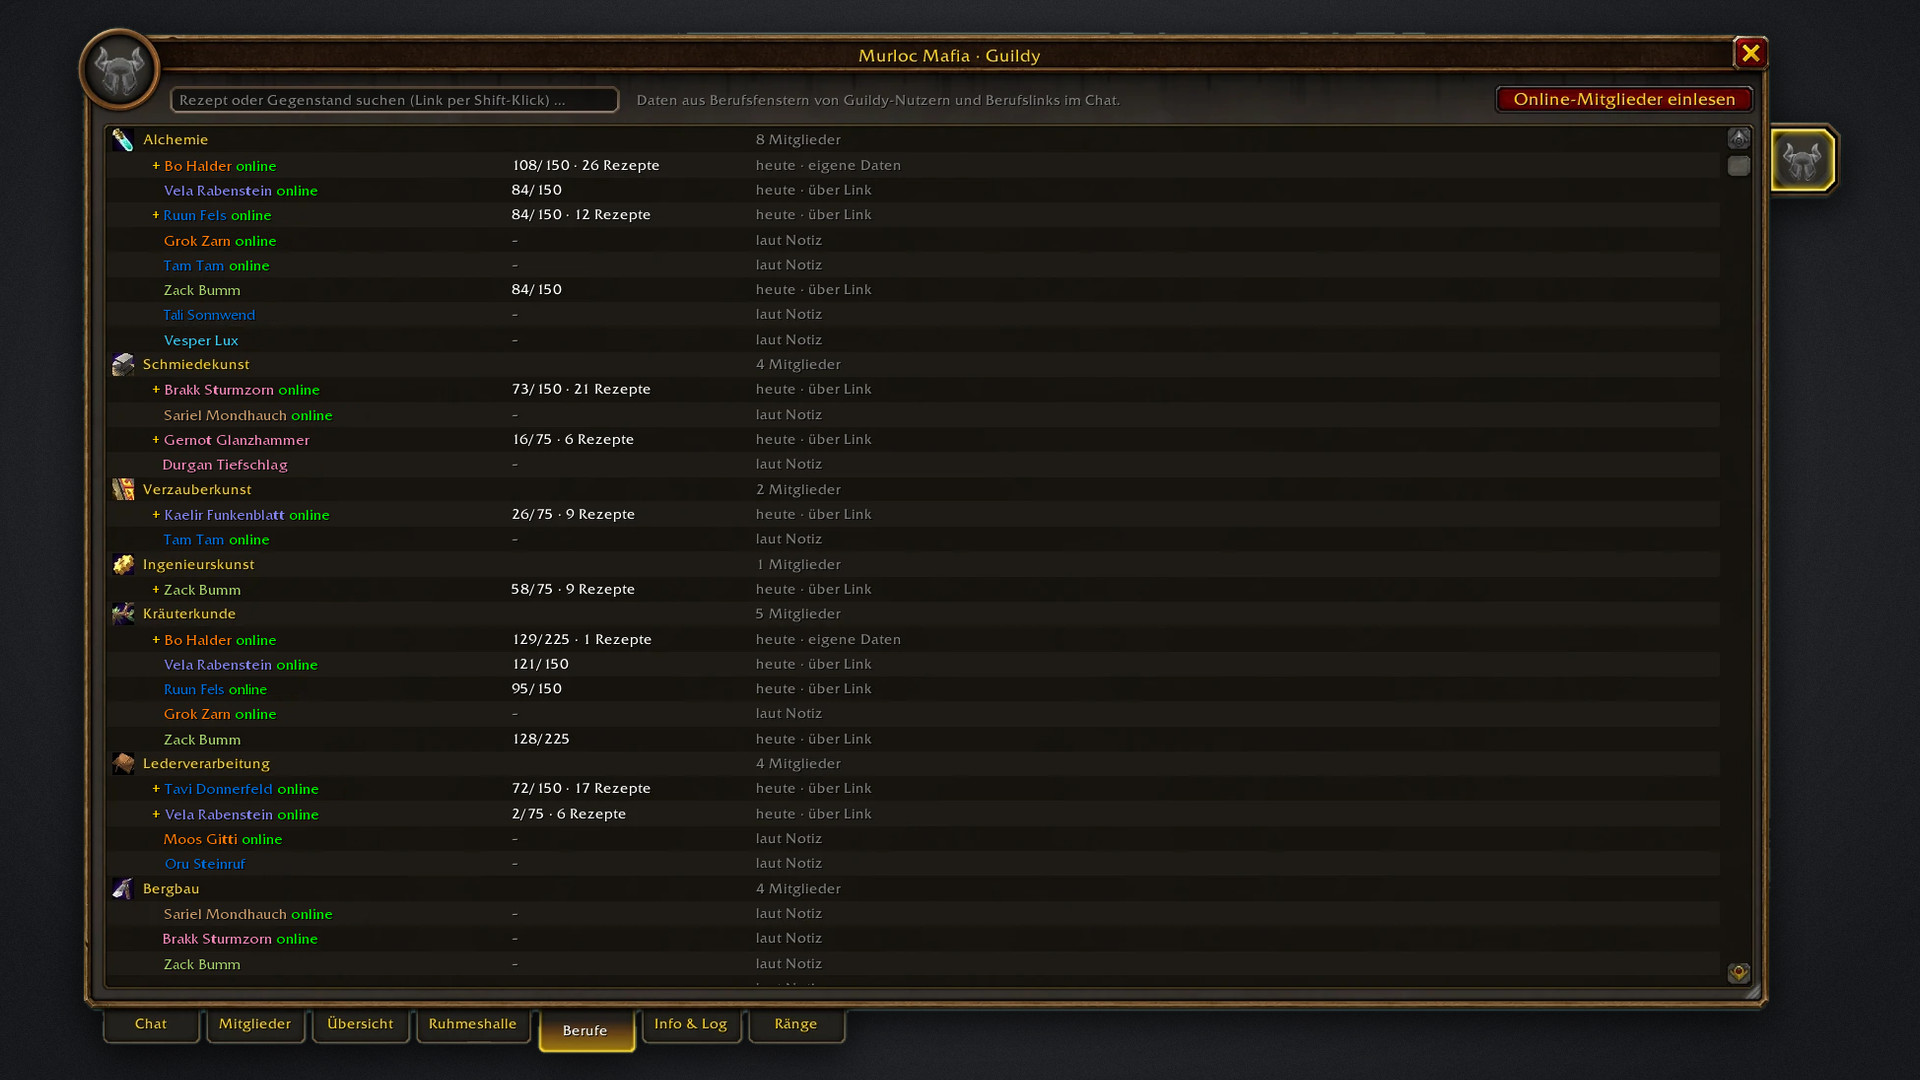
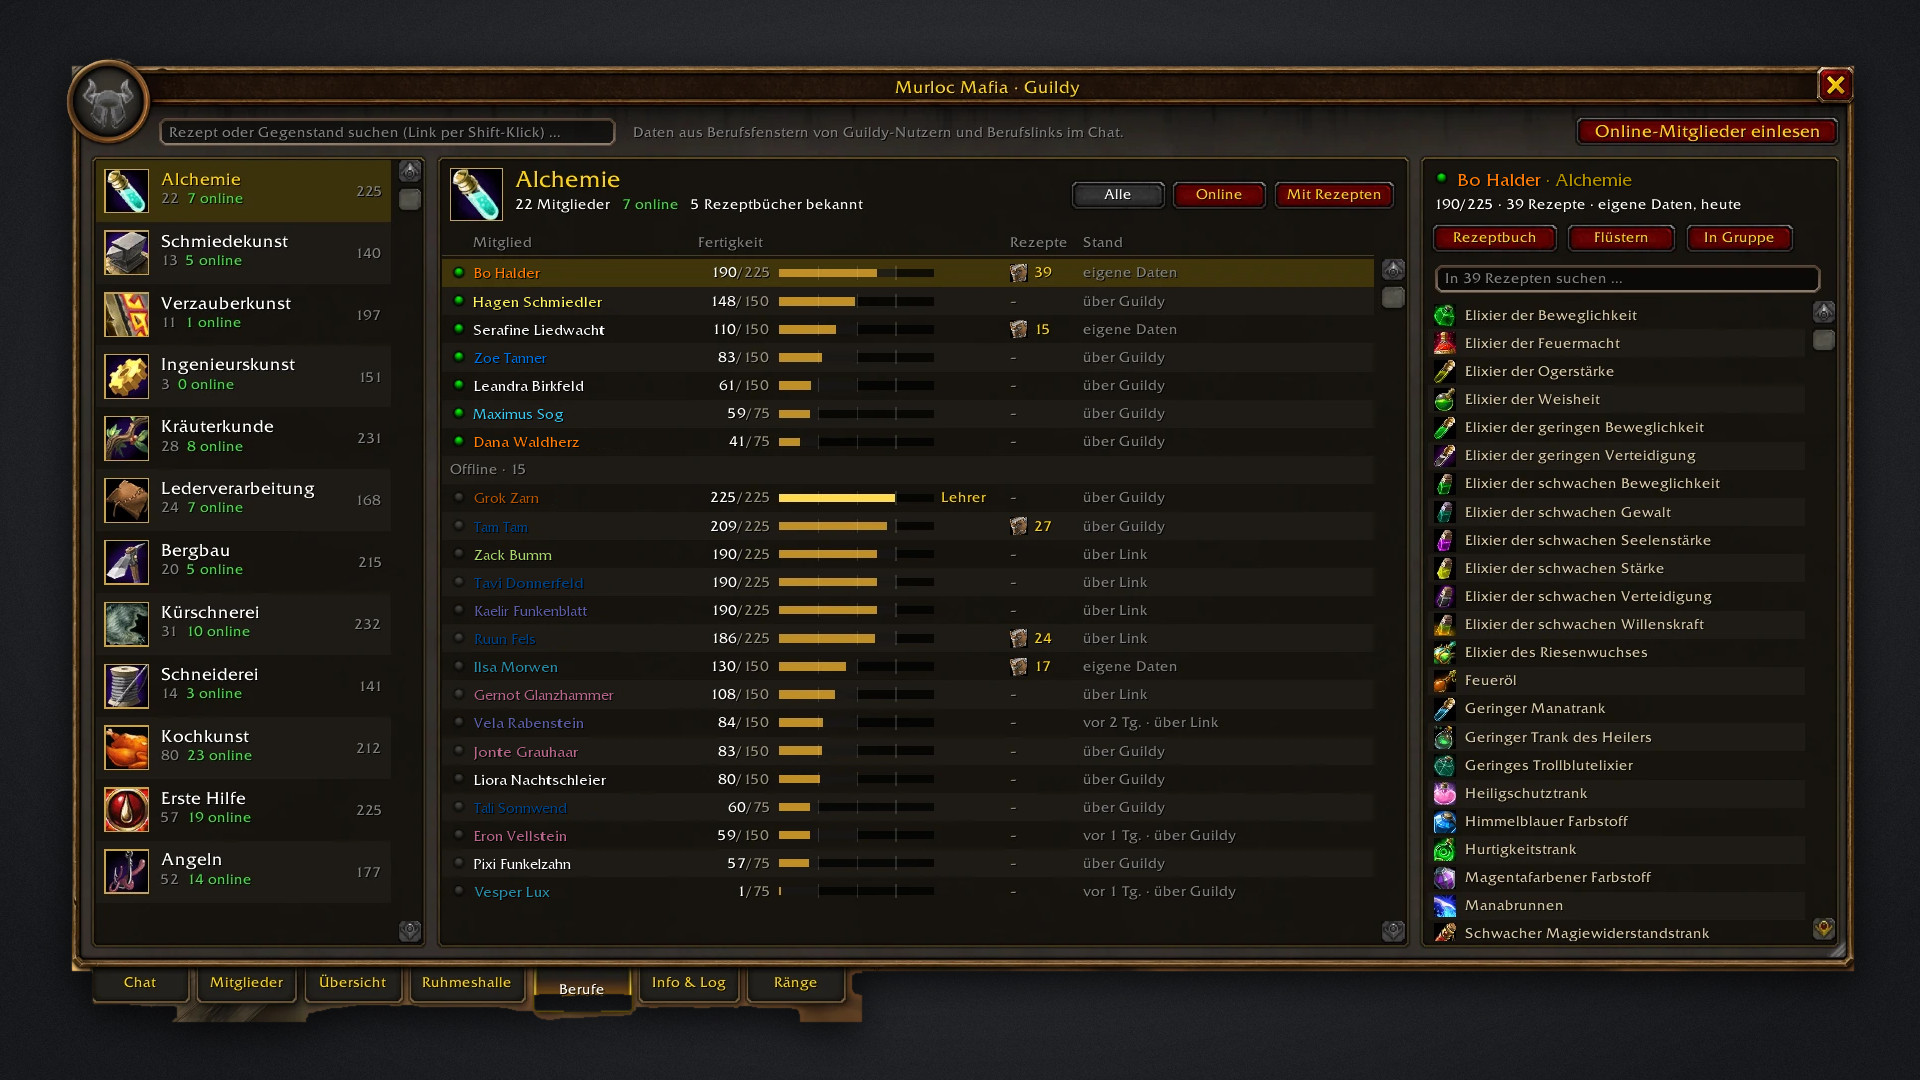
docs: gallery images and README for the new professions tab

diff --git a/media/gallery/build.py b/media/gallery/build.py
@@ -123,6 +123,27 @@ def stamp(img, spr, x, y):
 
 # --- cut the window out of the game world -------------------------------------------------------------
 
+def cutout_rect(im, rect):
+    """For screenshots where the world behind the window is neither sky nor night: cut along the measured
+    outer frame `rect` (x0, y0, x1, y1), plus the portrait ring and the tabs below (dark shapes)."""
+    a = np.asarray(im).astype(int)
+    h, w = a.shape[:2]
+    x0, y0, x1, y1 = rect
+    fg = np.zeros((h, w), bool)
+    fg[y0:y1 + 1, x0:x1 + 1] = True
+    yy, xx = np.mgrid[0:h, 0:w]
+    fg |= (xx - (x0 + 39)) ** 2 + (yy - (y0 + 37)) ** 2 <= 45 ** 2
+    tz = np.zeros((h, w), bool)
+    tz[y1 + 1:min(h, y1 + 52), x0 + 20:x0 + 790] = True
+    dark = Image.fromarray(((a.sum(2) < 200) & tz).astype(np.uint8) * 255)
+    dark = dark.filter(ImageFilter.MaxFilter(11)).filter(ImageFilter.MinFilter(11))
+    fg |= (np.asarray(dark) > 0) & tz
+    alpha = Image.fromarray((fg * 255).astype(np.uint8)).filter(ImageFilter.GaussianBlur(0.6))
+    out = im.convert("RGBA")
+    out.putalpha(alpha)
+    return out.crop(out.getbbox())
+
+
 def cutout(im):
     a = np.asarray(im).astype(int)
     # daytime sky (blue or bright) or a dark night sky (dark, at least as blue as red)
@@ -374,13 +395,13 @@ def plain(*real):
 
 def main(only=None):
     from screens import JOBS  # local only: real names and per-screen positions
-    for out, src, edit in JOBS:
+    for out, src, edit, *rect in JOBS:
         if only and not out.startswith(only):
             continue
         im = Image.open(os.path.join(HERE, "src", src + ".webp")).convert("RGB")
         img_orig[0] = im.copy()
         edit(im)
-        compose(cutout(im)).save(os.path.join(HERE, out + ".jpg"), quality=90, optimize=True, progressive=True,
+        compose(cutout_rect(im, rect[0]) if rect else cutout(im)).save(os.path.join(HERE, out + ".jpg"), quality=90, optimize=True, progressive=True,
                                  subsampling=0)
         print(out + ".jpg")
 

diff --git a/README.md b/README.md
@@ -14,12 +14,14 @@ Made for **WoW Forever**.
 - **Who's online**: next to the chat, every online member with level, class colour, professions and zone. Hover for rank, notes and skills, click to whisper, right-click for the menu.
 - **Members**: search name, zone or note, filter by class, level bracket and profession, sort by any column. The details panel shows notes, rank, last online and professions.
 - **Overview**: the census of your guild. Classes, levels and professions of the members who were online in the last month, three months, six months, or all of them. Click a bar to see who it is.
-- **Professions**: who has which profession at what skill, and a recipe search ("who can make Elixir of Lion's Strength?"). Click a member to expand their recipes, or open their recipe book.
+- **Professions**: every profession in a list on the left, with how many members have it and how many are online. Pick one to see its members with skill, recipes and where the data comes from; filter by online or by members with recipes, and browse a member's recipes right next to it. The search finds who can craft a recipe or item ("who can make Elixir of Lion's Strength?").
 - **Info & Log**: message of the day, guild information and the guild log.
 
 ![Census](https://raw.githubusercontent.com/svengabr/Guildy/main/media/gallery/03-overview.jpg)
 
 ![Professions](https://raw.githubusercontent.com/svengabr/Guildy/main/media/gallery/09-professions.jpg)
+
+![Professions: leatherworking](https://raw.githubusercontent.com/svengabr/Guildy/main/media/gallery/09-professions-leatherworking.jpg)
 
 ![Members](https://raw.githubusercontent.com/svengabr/Guildy/main/media/gallery/02-members.jpg)
 
@@ -80,7 +82,7 @@ Das Standard-Gildenfenster zeigt einen Chat und eine schlichte Liste. Guildy ers
 - **Chat**: Gildenchat mit Verlauf und etwas größerer Schrift, Offizierschat mit einem Klick, Beitritte als graue Zeile. Daneben alle Online-Mitglieder mit Stufe, Klassenfarbe, Berufen und Zone. Klick flüstert an, Rechtsklick öffnet das Menü.
 - **Mitglieder**: Suche nach Name, Zone oder Notiz, Filter für Klasse, Stufe und Beruf, sortierbare Spalten und eine Detailansicht.
 - **Übersicht**: der Census eurer Gilde. Klassen, Stufen und Berufe der Mitglieder, die im letzten Monat, in den letzten drei oder sechs Monaten oder überhaupt online waren. Ein Klick auf einen Balken zeigt, wer es ist.
-- **Berufe**: wer welchen Beruf mit welchem Skill hat, und eine Rezeptsuche („wer kann mir das herstellen?“). Ein Klick klappt die Rezepte eines Mitglieds auf, per Rechtsklick öffnest du sein Rezeptbuch.
+- **Berufe**: links alle Berufe mit der Zahl der Mitglieder und wie viele davon online sind. Ein Klick zeigt die Mitglieder des Berufs mit Skill, Rezepten und Datenquelle, filterbar nach online oder mit Rezepten, und daneben die Rezepte des gewählten Mitglieds. Die Suche findet, wer ein Rezept oder einen Gegenstand herstellen kann („wer kann mir das herstellen?“).
 - **Info & Log**: Nachricht des Tages, Gildeninformation und Gildenlog.
 
 **Woher die Berufe kommen:** aus deinen eigenen Berufsfenstern (einmal öffnen reicht), automatisch von anderen Guildy-Nutzern (inklusive Sammelberufe, abschaltbar), aus angeklickten Berufslinks, aus Gildennotizen wie „Herb/Alch“ und per Knopf „Online-Mitglieder einlesen“. Der öffnet nacheinander die Rezeptbücher aller Online-Mitglieder deines Server-Bereichs und merkt sich die Rezepte.

diff --git a/docs/curseforge.md b/docs/curseforge.md
@@ -66,7 +66,9 @@ Title and description per image (CurseForge allows 255 characters per descriptio
    - Description: Honorable kills, duels won and lost, and battlegrounds played across the guild. Title cards for the top fighter and the duel master, plus win rate and this month's kills for every member.
 9. `media/gallery/09-professions.jpg`
    - Title: Professions
-   - Description: Who has which profession, at what skill and with how many recipes? Search for a recipe or item to find who can craft it. Data comes from Guildy users, profession links in chat, guild notes, or from reading the recipe books of online members.
+   - Description: Every profession at a glance: how many members have it and how many are online. Pick one for its members with skill, recipes and data source, and browse a member's recipes right next to it. The search finds who can craft an item.
+   - Second image `media/gallery/09-professions-leatherworking.jpg`, Title: Professions: Leatherworking
+   - Description: Online members first, then offline, with skill bars and who is a trainer-level master. Data comes from Guildy users, profession links in chat, guild notes, or from reading the recipe books of online members.
 10. `media/gallery/10-info-log.jpg`
    - Title: Info & Log
    - Description: Message of the day and guild information, both editable right in the window, next to the full guild log: joins, leaves, invites, promotions and demotions. Your sharing settings are here too.
